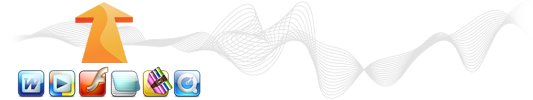
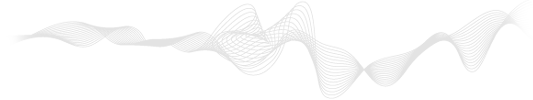
Fix templates and files CSS >> Default Style

Changed region(s): [[0.03, 0.66, 0.3902, 0.99], [0.1201, 0.03, 0.2702, 0.63]]

diff --git a/styles/default/css/stylesheet.css b/styles/default/css/stylesheet.css
@@ -286,12 +286,12 @@ p.explain {
 .index_info  li {
 	background-image:url(../images/info_f.png);
 	background-repeat:no-repeat;
-	background-position:right center;
+	background-position:right top;
 }
 .index_err li {
 	background-image:url(../images/err.png);
 	background-repeat:no-repeat;
-	background-position:right center;
+	background-position:right top;
 }
 .index_err span,.index_info  span {
 	color:#111;
@@ -365,8 +365,8 @@ p.explain {
 /* Powered by kleeja*/
 .kleeja{
 	width:30%;
-	padding:4px 1px;
-	margin-top:6px;
+	padding:2px 1px;
+	margin-top:4px;
 	float:left;
 	text-align:left;
 	color:#555;
@@ -621,9 +621,6 @@ input.input_num {
 .bg {
 	background:#fff url(../images/bg_tabbertab.png) repeat-x bottom left;
 }
-.bgurl{
-	background:url(../images/bgurl.png) no-repeat 6% 100%;
-}
 ul.tabbernav{
 	padding:2px 0;
 	font-size:11px;
@@ -665,12 +662,13 @@ ul.tabbernav li.tabberactive a:hover{
 .online{
 	width:100%;
 	float:right;
-	padding:4px 0;
+	padding:2px 0;
 	display:block;
-	margin:2px 0;
+	margin:5px 0;
 }
 .onlineall ,.onlinevisitor ,.onlineusers,.name_users {
-	margin-left:3px;
+	float:right;
+	margin-left:6px;
 	padding:2px 10px;
 	font-family:"Tahoma", Arial, Verdana, sans-serif, Lucida Grande, Lucida Sans Unicode;
 	font-weight:400;
@@ -723,12 +721,13 @@ ul.tabbernav li.tabberactive a:hover{
 }
 .footerlinksleft ul{
 	width:22%;
-	line-height:20px;
+	line-height:16px;
 	float:left;
 }
 .footerlinksleft li{
 	float:left;
 	font-weight:normal;
+	direction:ltr;
 }
 .footerlinksleft ul li a{
 	padding:2px 4px;
@@ -898,21 +897,20 @@ select.remme:focus {
 	color:#FF6600;
 	padding-top:4px;
 }
-#filecplink .copylink {
-	line-height:15px;
-	padding:1px 6px;
-	color:#FF6600;
-	background:#FFE;
-	border-left: 1px solid #AFAEAA;
-	border-top: 1px solid #AFAEAA;
-	border-right: 1px solid #D5D5C8;
-	border-bottom: 1px solid #D5D5C8;
+#filecplink .copylink  input ,#filecplink .link_user  input{
+	width:96%;
+	font-size:11px;
+	padding:4px 3px;
+	border: 1px solid #FFC58A;
 }
-#filecplink .link_user{
-	padding:2px 4px;
+#filecplink .link_user  input{
 	direction:ltr;
-	margin-right:5px;
 }
+
+#filecplink .copylink  input:hover,#filecplink .link_user  input:hover{
+	border: 1px solid #FF8F21;
+}
+
 .tabledata {
 	width:100%;
 	background-color:#CECECE;

diff --git a/styles/default/index_body.html b/styles/default/index_body.html
@@ -50,7 +50,7 @@
 <IF NAME="config.www_url">
 <!-- start uplaod URL -->   
 <div class="bg tabbertab" title="{lang.DOWNLOAD_T}" id="texttype">
-<div class="bgurl">
+<div class="go_up">
 <LOOP NAME=FILES_NUM_LOOP>
 	<input class="url" type="text" name="file_{{i}}_" id="fileu_{{i}}_" size="70" value="{lang.PAST_URL_HERE}" onclick="this.value=''" style="display:{{show}}" /><br id="bru_{{i}}_" style="display:{{show}}" />
 </LOOP>
@@ -103,14 +103,14 @@
 <!-- START FOR ONLINE -->
 <div class="clr"></div>
 <div class="online">
-<button class="onlineall" type="button">{lang.NUMBER_ONLINE} : [ {allnumbers} ]</button>
-<button class="onlinevisitor" type="button">{lang.NUMBER_VONLINE} : [ {visitornum} ]</button>
-<button class="onlineusers" type="button">{lang.NUMBER_UONLINE} : [ {usersnum} ]</button>
+<div class="onlineall">{lang.NUMBER_ONLINE} : [ {allnumbers} ]</div>
+<div class="onlinevisitor">{lang.NUMBER_VONLINE} : [ {visitornum} ]</div>
+<div class="onlineusers">{lang.NUMBER_UONLINE} : [ {usersnum} ]</div>
 </div>
 <!-- # END FOR ONLINE -->
 <div class="clr"></div>
 	<LOOP NAME="shownames">
-		<button class="name_users" type="button"><!--{{seperator}}-->{{name}}</button>
+		<div class="name_users"><!--{{seperator}}-->{{name}}</div>
 	</LOOP>
 	<div class="clr"></div>
 </IF>

diff --git a/styles/default/css/ltr.css b/styles/default/css/ltr.css
@@ -35,7 +35,6 @@ img.right {float:left;margin-right:15px;margin-left:0;}
 .stats  {background-position: 94% 50%;}
 #content_index_body {float:right;}
 .go_up{	background-position: 94% 100%;}
-.bgurl{background-position: 94% 100%;}
 ul.tabbernav li a{margin-left:0;margin-right:4px;background-position:top right;}
 .online{float:left;}
 .onlineall ,.onlinevisitor ,.onlineusers,.name_users {margin-left:0;margin-right:3px;}
@@ -69,4 +68,3 @@ input.username,input.password {float:left;padding:3px 20px 3px 3px;background-po
 .pagination{float:left;margin:3px 3px 3px 0px;}
 .pagination li{float:left;margin-left:0;margin-right:3px;}
 .css_xhtml{float:right;right:0;bottom:0;}
-.go_up,.bgurl{	background-position: 360% 100%;}

diff --git a/styles/default/footer.html b/styles/default/footer.html
@@ -26,7 +26,7 @@
   	<ul>
 	<li><a title="{lang.FOOTER_TXTS.BUGS}" onclick="window.open(this.href,'_blank');return false;" href="http://www.kleeja.com/bugs/ar/">Bugs</a> | </li>
 	<li><a title="{lang.FOOTER_TXTS.PLUGINS}" onclick="window.open(this.href,'_blank');return false;" href="http://www.kleeja.com/plugins/">Plugins</a> |</li>
-	<li><a title="{lang.FOOTER_TXTS.STYLES}" onclick="window.open(this.href,'_blank');return false;" href="http://www.kleeja.com/styles/">Styles</a> | </li>
+	<li><a title="{lang.FOOTER_TXTS.STYLES}" onclick="window.open(this.href,'_blank');return false;" href="http://www.kleeja.com/styles/">Styles</a></li>
   </ul>
 </div>
 <!-- # End links kleeja -->

diff --git a/styles/default/fileuser.html b/styles/default/fileuser.html
@@ -34,8 +34,8 @@
 
 <table width="100%">
 	<tr>
-		<td width="50%"><p class="copylink">{lang.COPY_AND_GET_DUD}</p></td>
-		<td width="50%"><input class="link_user" readonly="readonly" onclick="this.select();" type="text" name="option" value="{your_fileuser}" size="60" /></td>
+		<td class="copylink"><input readonly="readonly" type="text" value="{lang.COPY_AND_GET_DUD}" /></td>
+		<td class="link_user"><input readonly="readonly" onclick="this.select();" type="text" name="option" value="{your_fileuser}" /></td>
 	</tr>
 </table>
 
